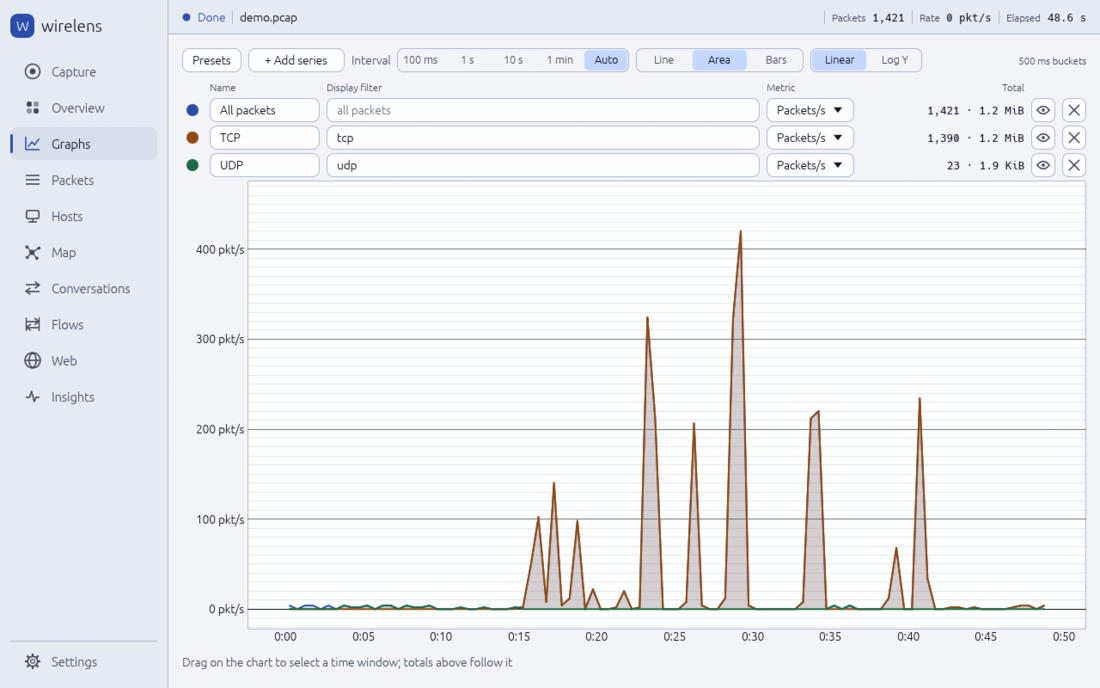
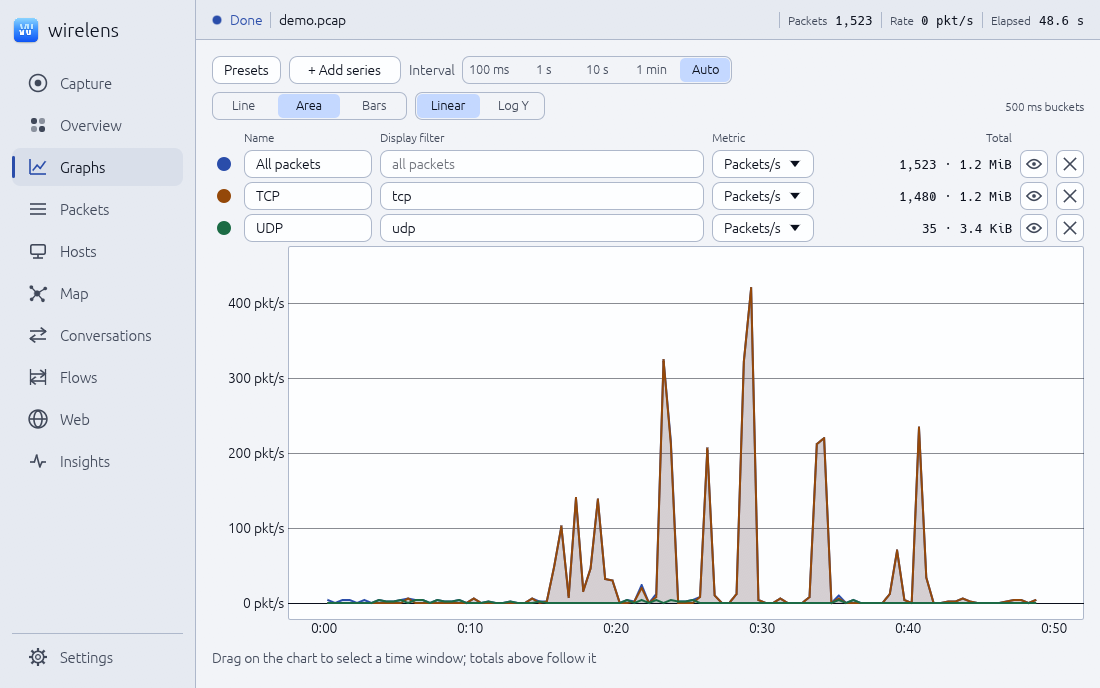
Write the changelog in full sentences and retake the screenshots
Each changelog entry now says what changes for the user. The README shows nine
pages in both themes, taken on an invented network, credits DB-IP for the
country and network data, and describes the current features.

diff --git a/CHANGELOG.md b/CHANGELOG.md
@@ -1,97 +1,120 @@
 # Changelog
 
-All notable changes to this project will be documented in this file.
-
-The format is based on [Keep a Changelog](https://keepachangelog.com/en/1.1.0/),
-and this project adheres to [Semantic Versioning](https://semver.org/spec/v2.0.0.html).
+All notable changes to wirelens are documented here. The format follows [Keep a Changelog](https://keepachangelog.com/en/1.1.0/)
+and the project follows [Semantic Versioning](https://semver.org/).
 
 ## [Unreleased]
+
+### Changed
+- **New screenshots in the README.** It shows nine pages instead of six (Hosts with its locations, Insights and the
+  Locations settings were added), in both themes, all taken on an invented home network.
 
 ## [0.4.0] - 2026-11-21
 
 ### Added
-- Settings: a **Locations** page for the country and network databases. It proposes the DB-IP
-  Country Lite and ASN Lite databases with a Download button (and Update once installed), lets you
-  add your own `.mmdb` files and remove them, and opens their folder. A download is checked to be a
-  valid database before it replaces the old one, and Hosts and Map pick it up without a restart.
-- Filter boxes suggest the hosts and the service ports of the capture after a comparison operator
-  (`ip.addr == 10.`, `tcp.port == `), instead of field names.
-- Web: HTML responses can be read as text (a Preview with headings, lists and link targets, or the
-  Source). The Pretty / Raw switch for JSON stays.
+- **Location databases from the settings.** Settings > Locations lists the free DB-IP Country and ASN databases
+  (about 4 and 5 MB) with a Download button, which becomes Update once one is installed. A download is checked to open
+  as a valid database before it replaces the old file, so a failed one never breaks the lookups. Your own `.mmdb` files
+  (GeoLite2, DB-IP...) are added from the same page and can be removed again, and the folder opens in the file
+  manager. Hosts and Map use a new database at once, without a restart.
+- **The filter box suggests values from the capture.** After a comparison operator, `ip.addr == 10.` offers the hosts
+  that start with `10.` and `tcp.port == ` the service ports in use, the most active first, instead of matching field
+  names. Enter or Tab accepts. It works in the Packets filter and in the Graphs series; names (DNS, SNI, hosts) are not
+  suggested yet.
+- **HTML responses can be read.** The Web details show a Preview of the page (title, headings, list items and link
+  targets as plain text, scripts and styles left out) next to its Source, with a Preview / Source switch like the
+  Pretty / Raw one of JSON.
 
 ### Changed
-- Filter autocomplete uses the real cursor position to find the token being edited, and long field
-  names no longer run into their description.
-- The Hosts hint tells where to add a location database (Settings > Locations).
+- **Suggestions follow the cursor.** Editing the middle of a filter completes the word under the cursor instead of
+  assuming the end of the text, and a long field name is cut instead of running into its description.
+- **The Hosts page says where to get a location database** when none is installed (Settings > Locations), on one line
+  that is cut to the width of the toolbar.
 
 ### Fixed
-- After accepting a suggestion the cursor was left in the middle of the text; it now moves to the
-  end of the inserted text.
+- **The cursor lands after what a suggestion inserted.** It used to stay in the middle of the text.
+- **Pretty-printed JSON keeps the order of its keys** as the server sent them, instead of sorting them alphabetically.
 
 ## [0.3.0] - 2026-11-21
 
 ### Added
-- A new application icon (a split W on a rounded tile), in a blue and a dark version, used as the
-  window icon, in the sidebar, in the `.deb` and Arch packages, in the macOS `.app` and on the
-  Windows installer and executable. Sources and PNG, `.ico` and `.icns` exports are in
-  `assets/logo`.
-- Hosts: a **Location** column (country and, with an ASN database, the network operator) and the
-  same details in the Map tooltips. It reads local MaxMind-format `.mmdb` files (GeoLite2, DB-IP
-  Lite...) from `~/.local/share/wirelens/geo`, the qBittorrent `GeoDB` folder, `/usr/share/GeoIP`
-  or the folder named by `WIRELENS_GEO_DIR`. The column is hidden when no database is found.
-- Reverse DNS names for public hosts (they were limited to `localhost`).
-- Web: JA3, JA4 and JA3S TLS fingerprints in the session details, searchable.
-- Web: response bodies can be switched between pretty and raw text (JSON is formatted), the text
-  preview grew from 4 KiB to 256 KiB, and PNG, JPEG and GIF bodies are shown as images.
-- Insights: behavioural findings for TCP and UDP port scans, ping and host sweeps, regular
-  connections or packets (beaconing) and unusually long DNS names. They are computed in one
-  streamed pass whose memory follows the number of channels, not packets.
-- Overview: the throughput chart has a step selector (Auto, 10 ms, 100 ms, 1 s, 10 s).
+- **A logo.** wirelens has an icon, a split W on a rounded tile, in a blue version for the light theme and a dark one
+  for the dark theme. It is the window icon, heads the sidebar, and is in the `.deb` and Arch packages, the macOS app
+  and the Windows installer and executable. The sources and the PNG, `.ico` and `.icns` exports are in `assets/logo`.
+- **Where a host is.** Hosts gets a Location column with the country and, with an ASN database, the network operator
+  of public addresses, and the Map tooltips show the same. It reads local MaxMind-format `.mmdb` files (GeoLite2, DB-IP
+  Lite) from `~/.local/share/wirelens/geo`, the qBittorrent `GeoDB` folder, `/usr/share/GeoIP` or the folder in
+  `WIRELENS_GEO_DIR`, and stays hidden when none is found. Hosts also show reverse DNS names, which were limited to
+  `localhost`.
+- **TLS fingerprints.** The session details in Web show the JA3, JA4 and JA3S of the handshake, which tell one client or
+  server from another even when the traffic is encrypted, and the search box finds them.
+- **Reading response bodies.** A Pretty / Raw switch formats JSON, text previews grow from 4 KiB to 256 KiB, and PNG,
+  JPEG and GIF bodies are shown as images with their size.
+- **Behaviour findings in Insights.** TCP and UDP port scans, ping and host sweeps, connections or packets that arrive at
+  a steady rhythm (beaconing) and unusually long DNS names are reported, each with the filter that shows its packets.
+  They come from a single pass whose memory follows the number of hosts and ports rather than the number of packets, so
+  there is no cap on the capture. Many hosts contacted on a web port (80, 443...) are not counted as a sweep, since
+  browsing does that.
+- **A step for the throughput chart.** Auto, 10 ms, 100 ms, 1 s or 10 s.
 
 ### Changed
-- The throughput series now starts at 1 ms buckets and widens itself as the capture grows, and a
-  selected time window is kept to the millisecond instead of whole seconds.
-- Filter autocomplete loads every field known to tshark (it stopped at 25,000, so fields such as
-  `ip.addr` were missing) and ranks the exact match, then common fields, then the shortest
-  prefix. Enter accepts the suggestion and Tab / Shift+Tab move through the list.
-- Case-insensitive searches in the filter boxes no longer allocate for each row.
-- Insights results are delivered as soon as each analysis finishes.
+- **The throughput chart is finer.** Its buckets start at 1 ms and widen as the capture grows (a short capture used to
+  be two points), and a selected time window is kept to the millisecond instead of whole seconds.
+- **Filter autocomplete knows every field.** It loaded only the first 25,000 of tshark's 270,000 fields, so `ip.addr`
+  was missing. It now loads them all, ranks the exact match, then the common fields, then the shortest, and Enter
+  accepts while Tab and Shift+Tab move through the list.
+- **Searches in the filter boxes are faster**: the case-insensitive match no longer allocates for each row.
+- **Insights appear as each analysis finishes** instead of after the last one.
 
 ### Fixed
-- Flows: selecting hosts of both address families produced an invalid display filter.
-- Flows: a TCP graph for ports reused by several connections plotted them all as one, with time
-  running backwards. It now shows the first connection and says how many share the ports.
+- **Flows with hosts of both IPv4 and IPv6** no longer build an invalid display filter.
+- **A TCP graph for ports reused by several connections** drew them as one, with time running backwards. It shows the
+  first connection and says how many share the ports.
 
 ## [0.2.0] - 2026-11-21
 
 ### Added
-- Debian packages (`.deb`) for `amd64` and `arm64`, a Windows installer, macOS `.dmg` images
-  (drag `wirelens` to Applications) and an Arch Linux `.pkg.tar.zst`, with a `PKGBUILD` in
-  `packaging/arch`.
-- `SHA256SUMS` published with each release.
-- A synthetic demo capture (`tests/fixtures/demo.pcap`) and a screenshot table in the README.
-- A short code of conduct.
+- **Packages.** `.deb` packages for `amd64` and `arm64`, a Windows installer, macOS `.dmg` images (drag wirelens to
+  Applications) and an Arch Linux `.pkg.tar.zst` with a `PKGBUILD` in `packaging/arch`, and a `SHA256SUMS` file with
+  every release.
+- **A demo capture and screenshots.** `tests/fixtures/demo.pcap` and a table of screenshots in the README, and a short
+  code of conduct.
 
 ### Changed
-- New light theme: cooler paper greys with a stronger contrast for borders and muted text, and a
-  deep blue accent.
-- Release builds are stripped and use thin LTO, which makes the binaries about three times
-  smaller.
-- Updated `rfd` to 0.18, `dirs` to 7 and the GitHub Actions used by the CI.
+- **A cooler light theme.** Paper greys with a stronger contrast for borders and muted text, and a deep blue accent.
+- **Smaller binaries.** Release builds are stripped and use thin LTO, which makes them about three times smaller.
+- **Dependencies.** `rfd` 0.18, `dirs` 7 and newer GitHub Actions in the CI.
 
 ### Fixed
-- The Windows build no longer opens a console window.
+- **Windows:** the app no longer opens a console window behind it.
 
 ## [0.1.0] - 2026-11-20
 
-Initial public prototype release of `wirelens`, a desktop packet viewer built in Rust with `egui` on top of `tshark` and `dumpcap`.
+First public prototype of wirelens, a desktop packet viewer written in Rust with `egui` on top of `tshark` and
+`dumpcap`.
 
 ### Added
-- **Capture**: interface discovery grouped by type with live rates, BPF capture filters, promiscuous/monitor mode, snap length, ring buffer, auto-stop rules, and recent file history.
-- **Packets**: virtualized packet list, display filter bar with field completion and quick-filter chips, search (string, regex, hex), dissection tree with click-to-filter, hex viewer, custom columns, time formats, bookmarks, stream following, and export (pcap subsets, CSV, JSON, HTML report).
-- **Overview, Hosts & Conversations**: live and offline totals, throughput chart with time-window selection, protocol breakdown, and top talkers.
-- **Graphs & Flows**: multi-series I/O graphs, conversation sequence diagrams, and TCP time-sequence, throughput, RTT, and window-size plots.
-- **Map**: force-directed host-to-host traffic graph with volume-scaled links and encrypted flow highlighting.
-- **Web & Insights**: HTTP request/response pairing with body preview and `curl` export, TLS session inspection (SNI, version, cipher, ALPN, optional `SSLKEYLOGFILE` decryption), extracted objects, expert info, protocol hierarchy, and DNS query log.
-- **UI & CLI**: dark/light themes, detachable page windows, command palette (`Ctrl+K`), settings (`Ctrl+,`), and CLI options (`--live`, `--filter`, `--page`, `--detach`, `--decode-as`, `--scale`, `--size`, `--light`).
-- **Release binaries**: CI builds for Linux (`x86_64`, `aarch64`, Arch Linux), macOS (`arm64`, `x86_64`), and Windows (`x86_64`).
+- **Capture:** interfaces grouped by type with live rates, BPF capture filters, promiscuous and monitor mode, snap
+  length, ring buffer, auto-stop rules and a list of recent files.
+- **Packets:** a virtualized packet list, the display filter bar with field completion and quick-filter chips, search
+  (string, regex, hex), the dissection tree with click-to-filter, a hex view, custom columns, time formats, bookmarks,
+  stream following and export (pcap subsets, CSV, JSON, HTML report).
+- **Overview, Hosts and Conversations:** live and offline totals, a throughput chart with time-window selection, the
+  protocol mix and the top talkers.
+- **Graphs and Flows:** I/O graphs with several series, conversation sequence diagrams, and TCP time-sequence,
+  throughput, RTT and window-size plots.
+- **Map:** a force-directed graph of host-to-host traffic with links scaled by volume and encrypted flows highlighted.
+- **Web and Insights:** HTTP requests paired with their responses, with a body preview and `curl` export; TLS sessions
+  (SNI, version, cipher, ALPN, and decryption with `SSLKEYLOGFILE`); extracted objects; expert info, the protocol
+  hierarchy and the DNS query log.
+- **Interface and command line:** dark and light themes, pages that open in their own window, a command palette
+  (`Ctrl+K`), settings (`Ctrl+,`) and the options `--live`, `--filter`, `--page`, `--detach`, `--decode-as`, `--scale`,
+  `--size` and `--light`.
+- **Release binaries** built by the CI for Linux (`x86_64`, `aarch64`, Arch Linux), macOS (`arm64`, `x86_64`) and
+  Windows (`x86_64`).
+
+[Unreleased]: https://github.com/anyhowfeel/wirelens/compare/v0.4.0...HEAD
+[0.4.0]: https://github.com/anyhowfeel/wirelens/compare/v0.3.0...v0.4.0
+[0.3.0]: https://github.com/anyhowfeel/wirelens/compare/v0.2.0...v0.3.0
+[0.2.0]: https://github.com/anyhowfeel/wirelens/compare/v0.1.0...v0.2.0
+[0.1.0]: https://github.com/anyhowfeel/wirelens/releases/tag/v0.1.0

diff --git a/README.md b/README.md
@@ -23,28 +23,39 @@ meant to replace Wireshark or Sniffnet, and it covers only a small part of what 
 
 ## Screenshots
 
-Taken on a small synthetic capture (`tests/fixtures/demo.pcap`: a laptop, a TV, a phone and a
-NAS on a home network, with DNS, TLS, plain HTTP, SMB-style transfers and a retransmission
-burst), so you can open the same file and compare: `wirelens tests/fixtures/demo.pcap`.
+Taken on a small synthetic capture: a laptop, a TV, a phone and a NAS on an invented home network,
+talking to well-known public services over DNS, TLS, plain HTTP and SMB-style transfers, with a
+retransmission burst and three made-up behaviours for Insights (a visitor scanning the NAS, a phone
+calling a documentation address at a steady rhythm, and very long DNS names). Nothing in it comes from a
+real network. `tests/fixtures/demo.pcap` is the same network without those three behaviours, so you can
+open it and compare most pages: `wirelens tests/fixtures/demo.pcap`.
 
-| Overview | Packets | Map |
+| Overview | Packets | Hosts |
 | :---: | :---: | :---: |
-| <img src="assets/screenshots/overview-dark.png" alt="Overview, dark theme"> | <img src="assets/screenshots/packets-dark.png" alt="Packets, dark theme"> | <img src="assets/screenshots/map-dark.png" alt="Map, dark theme"> |
+| <img src="assets/screenshots/overview-dark.png" alt="Overview, dark theme"> | <img src="assets/screenshots/packets-dark.png" alt="Packets, dark theme"> | <img src="assets/screenshots/hosts-dark.png" alt="Hosts, dark theme"> |
 
-| Web | Flows | Graphs |
+| Map | Web | Insights |
 | :---: | :---: | :---: |
-| <img src="assets/screenshots/web-dark.png" alt="Web, dark theme"> | <img src="assets/screenshots/flows-dark.png" alt="Flows, dark theme"> | <img src="assets/screenshots/graphs-dark.png" alt="Graphs, dark theme"> |
+| <img src="assets/screenshots/map-dark.png" alt="Map, dark theme"> | <img src="assets/screenshots/web-dark.png" alt="Web, dark theme"> | <img src="assets/screenshots/insights-dark.png" alt="Insights, dark theme"> |
+
+| Flows | Graphs | Settings |
+| :---: | :---: | :---: |
+| <img src="assets/screenshots/flows-dark.png" alt="Flows, dark theme"> | <img src="assets/screenshots/graphs-dark.png" alt="Graphs, dark theme"> | <img src="assets/screenshots/settings-dark.png" alt="Settings, dark theme"> |
 
 <details>
 <summary>Light theme</summary>
 
-| Overview | Packets | Map |
+| Overview | Packets | Hosts |
 | :---: | :---: | :---: |
-| <img src="assets/screenshots/overview-light.png" alt="Overview, light theme"> | <img src="assets/screenshots/packets-light.png" alt="Packets, light theme"> | <img src="assets/screenshots/map-light.png" alt="Map, light theme"> |
+| <img src="assets/screenshots/overview-light.png" alt="Overview, light theme"> | <img src="assets/screenshots/packets-light.png" alt="Packets, light theme"> | <img src="assets/screenshots/hosts-light.png" alt="Hosts, light theme"> |
 
-| Web | Flows | Graphs |
+| Map | Web | Insights |
 | :---: | :---: | :---: |
-| <img src="assets/screenshots/web-light.png" alt="Web, light theme"> | <img src="assets/screenshots/flows-light.png" alt="Flows, light theme"> | <img src="assets/screenshots/graphs-light.png" alt="Graphs, light theme"> |
+| <img src="assets/screenshots/map-light.png" alt="Map, light theme"> | <img src="assets/screenshots/web-light.png" alt="Web, light theme"> | <img src="assets/screenshots/insights-light.png" alt="Insights, light theme"> |
+
+| Flows | Graphs | Settings |
+| :---: | :---: | :---: |
+| <img src="assets/screenshots/flows-light.png" alt="Flows, light theme"> | <img src="assets/screenshots/graphs-light.png" alt="Graphs, light theme"> | <img src="assets/screenshots/settings-light.png" alt="Settings, light theme"> |
 
 </details>
 
@@ -111,13 +122,15 @@ Environment variables:
 | --- | --- |
 | `SSLKEYLOGFILE` | TLS key log passed to `tshark`, so HTTPS traffic can be decrypted. |
 | `WIRELENS_CONFIG_DIR` | Directory for the preferences file (defaults to the user config directory). |
+| `WIRELENS_GEO_DIR` | Extra folder searched for location databases (`.mmdb`). |
 
 ## What it does
 
 - **Capture**: interface list grouped by type with live rates, capture options (filter,
   promiscuous, snap length, ring buffer, auto-stop), recent files.
 - **Packets**: virtualized packet list that stays responsive with about a million rows, display
-  filter bar with field completion and quick-filter chips, find (string, regex, hex),
+  filter bar with field completion (and, after an operator, the hosts and ports of the capture)
+  plus quick-filter chips, find (string, regex, hex),
   dissection tree with click-to-filter, hex view, custom columns, time formats, bookmarks,
   stream following, export (pcap subsets, CSV, JSON, HTML report).
 - **Overview, Hosts, Conversations**: totals, throughput, protocol mix, top talkers, with an
@@ -128,8 +141,8 @@ Environment variables:
   of encrypted flows.
 - **Flows**: sequence diagram of a conversation, plus TCP time-sequence, throughput, RTT and
   window-size graphs.
-- **Web**: HTTP requests paired with responses (headers, pretty or raw body, image preview,
-  `curl` export) and TLS sessions (SNI, version, cipher, ALPN, JA3 / JA4 fingerprints) for HTTPS;
+- **Web**: HTTP requests paired with responses (headers, pretty or raw JSON, readable HTML,
+  image preview, `curl` export) and TLS sessions (SNI, version, cipher, ALPN, JA3 / JA4 fingerprints) for HTTPS;
   extracted objects.
 - **Insights**: plain-language findings (including port scans, sweeps, beaconing and odd DNS
   names), expert info, protocol hierarchy, DNS log.
@@ -144,6 +157,9 @@ or to add your own MaxMind-format `.mmdb` files (GeoLite2, DB-IP Lite). They are
 `~/.local/share/wirelens/geo`; wirelens also reads the qBittorrent `GeoDB` folder, `/usr/share/GeoIP`
 and the folder named by `WIRELENS_GEO_DIR`. Lookups are offline. The only thing wirelens downloads is
 the file you ask for with the Download button.
+
+The country and network shown in the screenshots come from the DB-IP Lite databases, licensed
+[CC BY 4.0](https://creativecommons.org/licenses/by/4.0/): IP Geolocation by [DB-IP](https://db-ip.com).
 
 ## Releases
 
@@ -181,6 +197,9 @@ Tests that need `tshark` or loopback capture rights skip themselves when those a
 - Everything depends on the installed Wireshark version; field names follow `tshark` 4.x.
 - Files over a few hundred thousand packets load quickly but `tshark` itself uses a lot of
   memory on them.
+- The filter suggestions after an operator cover addresses and ports, not names.
+- The findings in Insights are heuristics with fixed thresholds (for example 20 ports for a scan, 8
+  connections for a steady rhythm); expect false positives from polling and keep-alives.
 - HTTP/2 and QUIC handling is best effort. Chunked bodies without a `Content-Length` are
   only partly accounted for.
 - Windows and macOS have not been tried.
